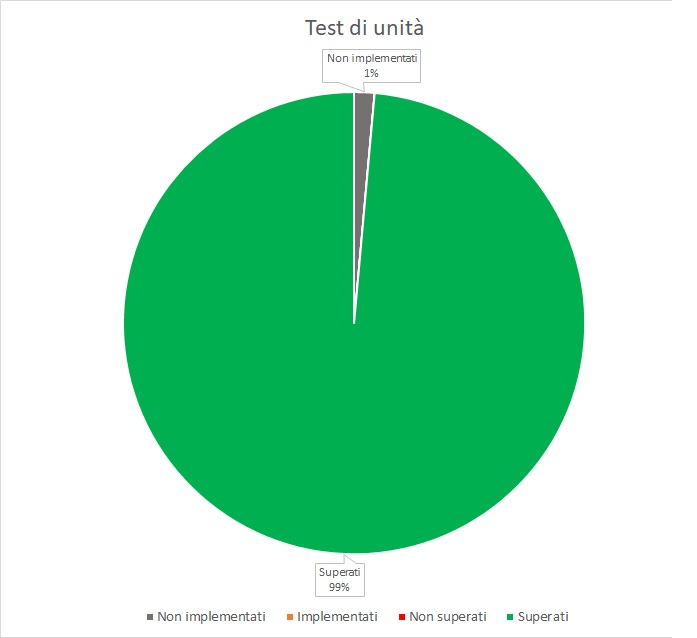
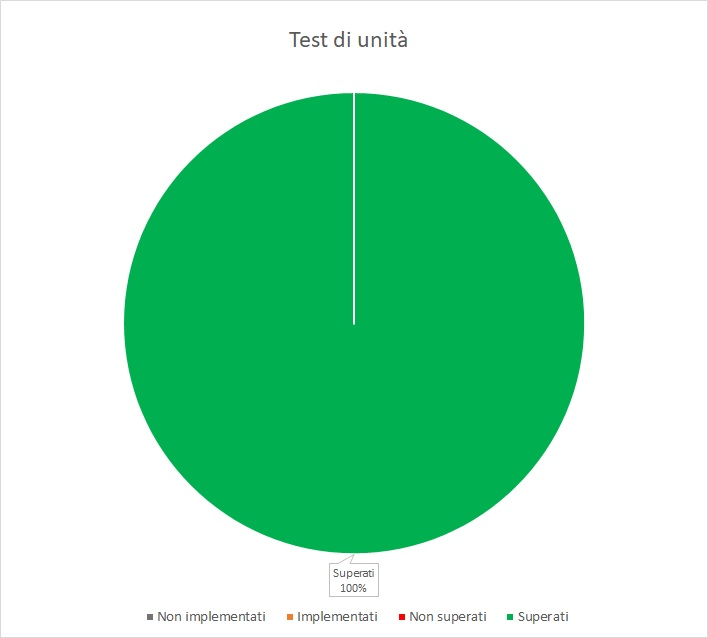
[PdQ] fix TA

diff --git a/PianoDiQualifica/Res/Sezioni/Appendici.tex b/PianoDiQualifica/Res/Sezioni/Appendici.tex
@@ -545,7 +545,7 @@ La presenza di pochi commenti nel codice inizialmente ha fatto registrare dei va
 		\begin{itemize}
 			\item L'utente crea un nuovo 7DOS panel;
 			\item L'utente si posiziona sulla scheda di \emph{"Edit"};
-			\item L'utente si posiziona sul \emph{"JSON import"} panel;
+			\item L'utente si posiziona sul \emph{"Manage network"} tab;
 			\item L'utente preme il pulsante per importare un file JSON;
 			\item L'utente seleziona il file da importare;
 			\item Conferma la selezione del file.
@@ -564,7 +564,7 @@ La presenza di pochi commenti nel codice inizialmente ha fatto registrare dei va
 	\item \textbf{Procedura}:
 	\begin{itemize}
 		\item L'utente si posiziona sulla scheda di \emph{"Edit"};
-		\item L'utente si posiziona sul \emph{"Network"} panel;
+		\item L'utente si posiziona sul \emph{"Connect nodes"} tab;
 		\item L'utente seleziona il flusso di dati da monitorare.
 	\end{itemize} 
 \end{itemize} \\
@@ -580,7 +580,7 @@ La presenza di pochi commenti nel codice inizialmente ha fatto registrare dei va
 	\item \textbf{Procedura}:
 	\begin{itemize}
 		\item L'utente si posiziona sulla scheda di \emph{"Edit"};
-		\item L'utente si posiziona sul \emph{"Network"} panel;
+		\item L'utente si posiziona sul \emph{"Connect nodes"} tab;
 		\item L'utente seleziona il nodo da monitorare rispetto al flusso di dati.
 	\end{itemize} 
 \end{itemize} \\
@@ -596,7 +596,7 @@ La presenza di pochi commenti nel codice inizialmente ha fatto registrare dei va
 	\item \textbf{Procedura}:
 	\begin{itemize}
 		\item L'utente si posiziona sulla scheda di \emph{"Edit"};
-		\item L'utente si posiziona sul \emph{"Network"} panel;
+		\item L'utente si posiziona sul \emph{"Connect nodes"} tab;
 		\item L'utente deseleziona il nodo da monitorare rispetto al flusso di dati.
 	\end{itemize} 
 \end{itemize} \\
@@ -612,7 +612,7 @@ La presenza di pochi commenti nel codice inizialmente ha fatto registrare dei va
 	\item \textbf{Procedura}:
 	\begin{itemize}
 		\item L'utente si posiziona sulla scheda di \emph{"Edit"};
-		\item L'utente si posiziona sul \emph{"Network"} panel;
+		\item L'utente si posiziona sul \emph{"Connect nodes"} tab;
 		\item L'utente modifica il nodo da monitorare rispetto al flusso di dati.
 	\end{itemize} 
 \end{itemize}\\
@@ -621,7 +621,7 @@ La presenza di pochi commenti nel codice inizialmente ha fatto registrare dei va
 \begin{itemize}
 	\item \textbf{Progettazione}: verifica che il sistema permetta di applicare il
 	ricalcolo delle probabilità della rete
-	secondo regole temporali stabilite dall'utente.;
+	secondo regole temporali stabilite dall'utente;
 	\item \textbf{Caso}: 
 	\begin{itemize}
 		\item \textbf{Input}: nessuno;
@@ -646,7 +646,7 @@ La presenza di pochi commenti nel codice inizialmente ha fatto registrare dei va
 	\item \textbf{Procedura}:
 	\begin{itemize}
 		\item L'utente si posiziona sulla scheda di \emph{"Edit"};
-		\item L'utente si posiziona sul \emph{"Network"} panel;
+		\item L'utente si posiziona sul \emph{"Manage monitoring"} tab;
 		\item L'utente modifica le regole temporali per il ricalcolo delle probabilità della rete.
 	\end{itemize} 
 \end{itemize} \\
@@ -727,7 +727,7 @@ La presenza di pochi commenti nel codice inizialmente ha fatto registrare dei va
 	\item \textbf{Procedura}:
 	\begin{itemize}
 		\item L'utente si posiziona all'interno di una dashboard;
-		\item L'utente clicca sulla voce \emph{add panel};
+		\item L'utente clicca sulla voce \emph{"Add panel"};
 		\item L'utente sceglie la tipologia di panel da creare.
 	\end{itemize} 
 \end{itemize} \\
@@ -861,113 +861,6 @@ La presenza di pochi commenti nel codice inizialmente ha fatto registrare dei va
 \hline
 {TA-7} &
 \begin{itemize}
-	\item \textbf{Progettazione}: verifica che il sistema permetta di disegnare una rete Bayesiana con un editor grafico specializzato;
-	\item \textbf{Caso}: 
-	\begin{itemize}
-		\item \textbf{Input}: nessuno;
-		\item \textbf{Risultato atteso}: la rete Bayesiana è stata disegnata.
-	\end{itemize}
-	\item \textbf{Procedura}:
-	\begin{itemize}
-		\item L'utente avvia l'editor grafico;
-		\item L'utente inizia a disegnare una rete Bayesiana;
-	\end{itemize} 
-\end{itemize} \\
-\hline
-{TA-7.1} &
-\begin{itemize}
-	\item \textbf{Progettazione}: verifica che il sistema permetta di creare un nuovo nodo della rete;
-	\item \textbf{Caso}: 
-	\begin{itemize}
-		\item \textbf{Input}: nessuno;
-		\item \textbf{Risultato atteso}: il nuovo della rete è stato creato.
-	\end{itemize}
-	\item \textbf{Procedura}:
-	\begin{itemize}
-		\item L'utente preme il pulsante \emph{add node};
-		\item L'utente sceglie la posizione in cui crearlo.
-	\end{itemize} 
-\end{itemize} \\
-\hline
-{TA-7.2} &
-\begin{itemize}
-	\item \textbf{Progettazione}: verifica che il sistema permetta di modificare i parametri di un nodo della rete;
-	\item \textbf{Caso}: 
-	\begin{itemize}
-		\item \textbf{Input}: nessuno;
-		\item \textbf{Risultato atteso}: i parametri del nodo vengono modificati.
-	\end{itemize}
-	\item \textbf{Procedura}:
-	\begin{itemize}
-		\item L'utente si posiziona nelle impostazioni del nodo;
-		\item L'utente modifica i parametri secondo le sue preferenze;
-		\item L'utente conferma le modifiche.
-	\end{itemize} 
-\end{itemize} \\
-\hline
-{TA-7.3} &
-\begin{itemize}
-	\item \textbf{Progettazione}: verifica che il sistema permetta di creare un collegamento tra due nodi della rete;
-	\item \textbf{Caso}: 
-	\begin{itemize}
-		\item \textbf{Input}: nessuno;
-		\item \textbf{Risultato atteso}: il nuovo collegamento viene creato.
-	\end{itemize}
-	\item \textbf{Procedura}:
-	\begin{itemize}
-		\item L'utente preme il pulsante \emph{"add link"};
-		\item L'utente sceglie i nodi da collegare.
-	\end{itemize} 
-\end{itemize} \\
-\hline
-{TA-7.4} &
-\begin{itemize}
-	\item \textbf{Progettazione}: verifica che il sistema permetta di eliminare un collegamento tra due nodi della rete;
-	\item \textbf{Caso}: 
-	\begin{itemize}
-		\item \textbf{Input}: nessuno;
-		\item \textbf{Risultato atteso}: il collegamento viene eliminato.
-	\end{itemize}
-	\item \textbf{Procedura}:
-	\begin{itemize}
-		\item L'utente preme il pulsante \emph{"remove link"};
-		\item L'utente sceglie il collegamento da rimuovere.
-	\end{itemize} 
-\end{itemize}\\
-\hline
-{TA-7.5} &
-\begin{itemize}
-	\item \textbf{Progettazione}: verifica che il sistema permetta di salvare la rete realizzata su un file JSON;
-	\item \textbf{Caso}: 
-	\begin{itemize}
-		\item \textbf{Input}: nessuno;
-		\item \textbf{Risultato atteso}: il file JSON con la definizione della rete viene salvato.
-	\end{itemize}
-	\item \textbf{Procedura}:
-	\begin{itemize}
-		\item L'utente preme il pulsante \emph{"save network"};
-		\item L'utente sceglie il percorso in cui salvare il file;
-		\item L'utente conferma la scelta.
-	\end{itemize} 
-\end{itemize} \\
-\hline
-{TA-7.6} &
-\begin{itemize}
-	\item \textbf{Progettazione}: verifica che il sistema rilevi e sia in grado di gestire eventuali errori derivati dalla modifica di un nodo;
-	\item \textbf{Caso}: 
-	\begin{itemize}
-		\item \textbf{Input}: nessuno;
-		\item \textbf{Risultato atteso}: il sistema mostra un messaggio di errore.
-	\end{itemize}
-	\item \textbf{Procedura}:
-	\begin{itemize}
-		\item L'utente si posiziona nelle impostazioni di un nodo;
-		\item L'utente effettua delle modifiche non valide.
-	\end{itemize} 
-\end{itemize} \\
-\hline
-{TA-8} &
-\begin{itemize}
 	\item \textbf{Progettazione}: verifica che il sistema permetta di applicare più reti Bayesiane a diversi oggetti di monitoraggio;
 	\item \textbf{Caso}: 
 	\begin{itemize}
@@ -981,23 +874,7 @@ La presenza di pochi commenti nel codice inizialmente ha fatto registrare dei va
 	\end{itemize} 
 \end{itemize} \\
 \hline
-{TA-9} &
-\begin{itemize}
-	\item \textbf{Progettazione}: verifica che il sistema permetta di creare una rete Bayesiana a partire dai dati raccolti
-	sul campo;
-	\item \textbf{Caso}: 
-	\begin{itemize}
-		\item \textbf{Input}: nessuno;
-		\item \textbf{Risultato atteso}: il sistema crea une rete Bayesiana.
-	\end{itemize}
-	\item \textbf{Procedura}:
-	\begin{itemize}
-		\item Il sistema raccoglie i dati provenienti dal flusso;
-		\item Il sistema li elabora per costruire una rete Bayesiana.
-	\end{itemize} 
-\end{itemize} \\
-\hline
-{TA-10} &
+{TA-8} &
 \begin{itemize}
 	\item \textbf{Progettazione}: verifica che il sistema permetta di condividere grafici presenti in una dashboard o in un singolo panel;
 	\item \textbf{Caso}: 
@@ -1012,7 +889,7 @@ La presenza di pochi commenti nel codice inizialmente ha fatto registrare dei va
 	\end{itemize} 
 \end{itemize}\\
 \hline
-{TA-10.1} &
+{TA-8.1} &
 \begin{itemize}
 	\item \textbf{Progettazione}: verifica che il sistema permetta di visualizzare il link diretto ad una dashboard o ad un
 	panel;
@@ -1030,7 +907,7 @@ La presenza di pochi commenti nel codice inizialmente ha fatto registrare dei va
 	\end{itemize} 
 \end{itemize}\\
 \hline
-{TA-10.2} &
+{TA-8.2} &
 \begin{itemize}
 	\item \textbf{Progettazione}: verifica che il sistema permetta di visualizzare il codice per l'inclusione di un panel in una pagina web;
 	\item \textbf{Caso}: 
@@ -1047,7 +924,7 @@ La presenza di pochi commenti nel codice inizialmente ha fatto registrare dei va
 	\end{itemize} 
 \end{itemize}\\
 \hline
-{TA-10.4} &
+{TA-8.3} &
 \begin{itemize}
 	\item \textbf{Progettazione}: verifica che il sistema permetta di condividere lo snapshot di una dashboard o di un
 	panel;
@@ -1065,7 +942,7 @@ La presenza di pochi commenti nel codice inizialmente ha fatto registrare dei va
 	\end{itemize} 
 \end{itemize}\\
 \hline
-{TA-10.5} &
+{TA-8.4} &
 \begin{itemize}
 	\item \textbf{Progettazione}: verifica che il sistema permetta di visualizzare il codice JSON contenente la definizione
 	di una dashboard;
@@ -1083,7 +960,7 @@ La presenza di pochi commenti nel codice inizialmente ha fatto registrare dei va
 	\end{itemize} 
 \end{itemize}\\
 \hline
-{TA-10.6} &
+{TA-8.5} &
 \begin{itemize}
 	\item \textbf{Progettazione}: verifica che il sistema permetta di salvare il file JSON contenente la definizione di una
 	dashboard;
@@ -1335,7 +1212,7 @@ La presenza di pochi commenti nel codice inizialmente ha fatto registrare dei va
 	\item \textbf{Procedura}:
 	\begin{itemize}
 		\item L'utente si posiziona all'interno di una dashboard;
-		\item L'utente clicca sulla voce \emph{add panel};
+		\item L'utente clicca sulla voce \emph{"Add panel"};
 		\item L'utente sceglie la tipologia di panel da creare.
 	\end{itemize} 
 \end{itemize}

diff --git a/PianoDiQualifica/Res/Sezioni/SpecificaTest(tartaggia).tex b/PianoDiQualifica/Res/Sezioni/SpecificaTest(tartaggia).tex
@@ -71,49 +71,25 @@
 	{TA-6.2} & {R1F6.2}
 	& {NI}\\
 	\hline
-	{TA-7} & {R1F7}
+	{TA-7} & {R2F8}
 	& {NI}\\
 	\hline
-	{TA-7.1} & {R1F7.1}
+	{TA-8} & {R2F10}
 	& {NI}\\
 	\hline
-	{TA-7.2} & {R1F7.2}
+	{TA-8.1} & {R2F10.1}
 	& {NI}\\
 	\hline
-	{TA-7.3} & {R1F7.4}
+	{TA-8.2} & {R2F10.2}
 	& {NI}\\
 	\hline
-	{TA-7.4} & {R1F7.5}
+	{TA-8.3} & {R2F10.4}
 	& {NI}\\
 	\hline
-	{TA-7.5} & {R1F7.6}
+	{TA-8.4} & {R2F10.5}
 	& {NI}\\
 	\hline
-	{TA-7.6} & {R1F7.7}
-	& {NI}\\
-	\hline
-	{TA-8} & {R2F8}
-	& {NI}\\
-	\hline
-	{TA-9} & {R2F9}
-	& {NI}\\
-	\hline
-	{TA-10} & {R2F10}
-	& {NI}\\
-	\hline
-	{TA-10.1} & {R2F10.1}
-	& {NI}\\
-	\hline
-	{TA-10.2} & {R2F10.2}
-	& {NI}\\
-	\hline
-	{TA-10.4} & {R2F10.4}
-	& {NI}\\
-	\hline
-	{TA-10.5} & {R2F10.5}
-	& {NI}\\
-	\hline
-	{TA-10.6} & {R2F10.6}
+	{TA-8.5} & {R2F10.6}
 	& {NI}\\
 	\hline
 	\caption{Riassunto test di accettazione}
@@ -318,7 +294,7 @@
 	{TI-4} & NetworkAdapter NetUpdater & \textcolor{darkgreen}{\textbf{S}}\\
 	\hline
 	\caption{Riassunto test di integrazione}
-	\label{tabella:riassunto ta}
+	\label{tabella:riassunto ti}
 \end{longtable}
 \renewcommand{\arraystretch}{1}
 \begin{figure} [H]
@@ -465,7 +441,7 @@
 	\hline
 	{TU-65} & \textcolor{darkgreen}{\textbf{S}}\\
 	\hline
-	{TU-66} & {\textbf{N.I.}}\\
+	{TU-66} & \textcolor{darkgreen}{\textbf{S}}\\
 	\hline
 	{TU-67} & \textcolor{darkgreen}{\textbf{S}}\\
 	\hline
@@ -589,7 +565,7 @@
 	\hline
 	{TU-127} & \textcolor{darkgreen}{\textbf{S}}\\
 	\hline
-	{TU-128} & {\textbf{N.I.}}\\
+	{TU-128} & \textcolor{darkgreen}{\textbf{S}}\\
 	\hline
 	{TU-129} & \textcolor{darkgreen}{\textbf{S}}\\
 	\hline
